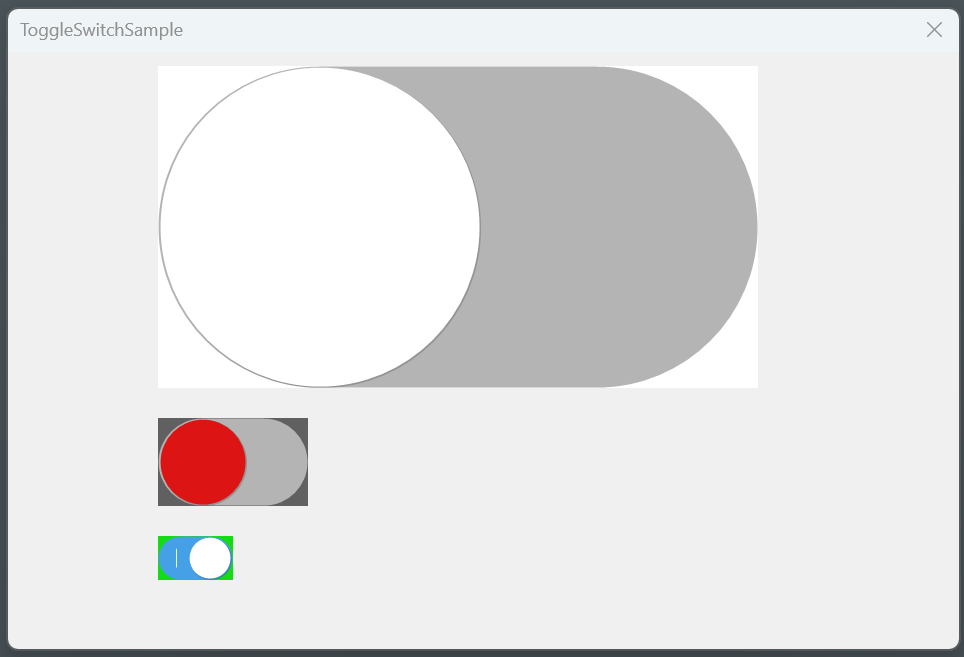
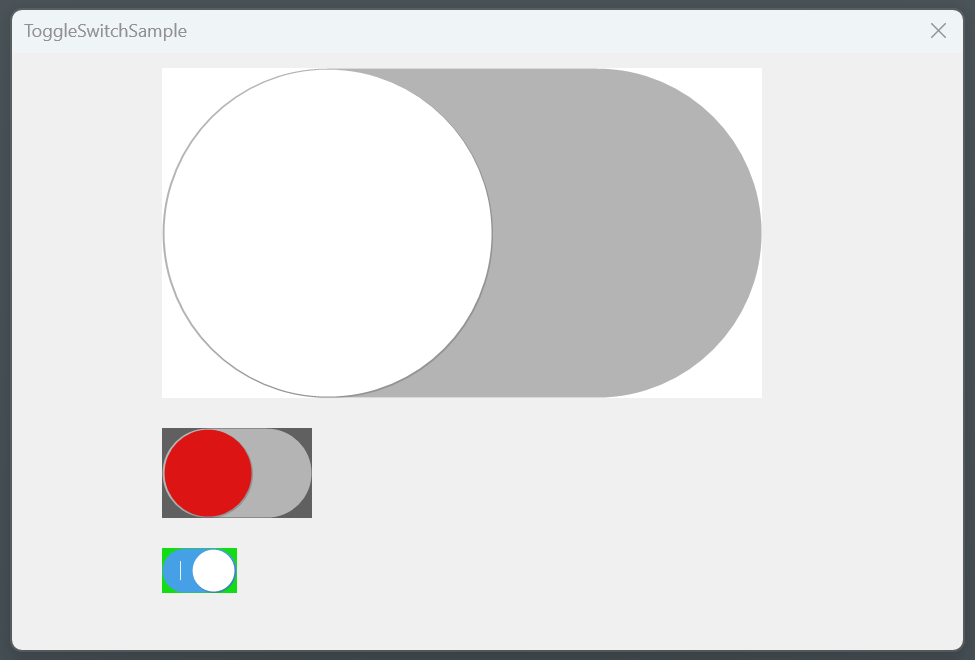
Smaple High-DPI Aware

diff --git a/Sample.cpp b/Sample.cpp
@@ -136,6 +136,8 @@ LRESULT OnDpiChanged(HWND hDlg, UINT msg, WPARAM wp, LPARAM lp)
 		prcNewWindow->bottom - prcNewWindow->top,
 		SWP_NOZORDER | SWP_NOACTIVATE);
 
+	LayoutControls(hDlg);
+
 		return 0;
 }
 
